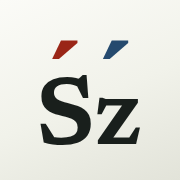
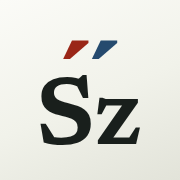
Tighten the accent pair to a double acute
Drops the gap between the two acutes from 73 to 10, so they read as one
two-tone mark — the Hungarian double acute — rather than as two separate
diacritics hovering over the letters.

Claude-Session: https://claude.ai/code/session_011kFFsKiRycJnCSpNR9dQS9

Changed region(s): [[0.5, 0.2222, 0.7222, 0.3333], [0.2778, 0.2222, 0.5, 0.3333]]

diff --git a/tools/make-icons.js b/tools/make-icons.js
@@ -50,7 +50,7 @@ const WORD_CSS = `line-height:1;font-size:${WORD_SIZE}px;letter-spacing:-.008em;
 const ACC_SIZE = 320;
 const ACC_CSS = `line-height:0;font-size:${ACC_SIZE}px;` +
   'font-variation-settings:"opsz" 12,"wght" 600';
-const ACC_GAP = 73;    // between the two accents' ink
+const ACC_GAP = 10;    // between the two accents' ink — a hair, like a double acute
 const ACC_ABOVE = 44;  // from the top of the word's ink to the accents
 const GROUP_CY = 264;  // centre of accents + word together
 
